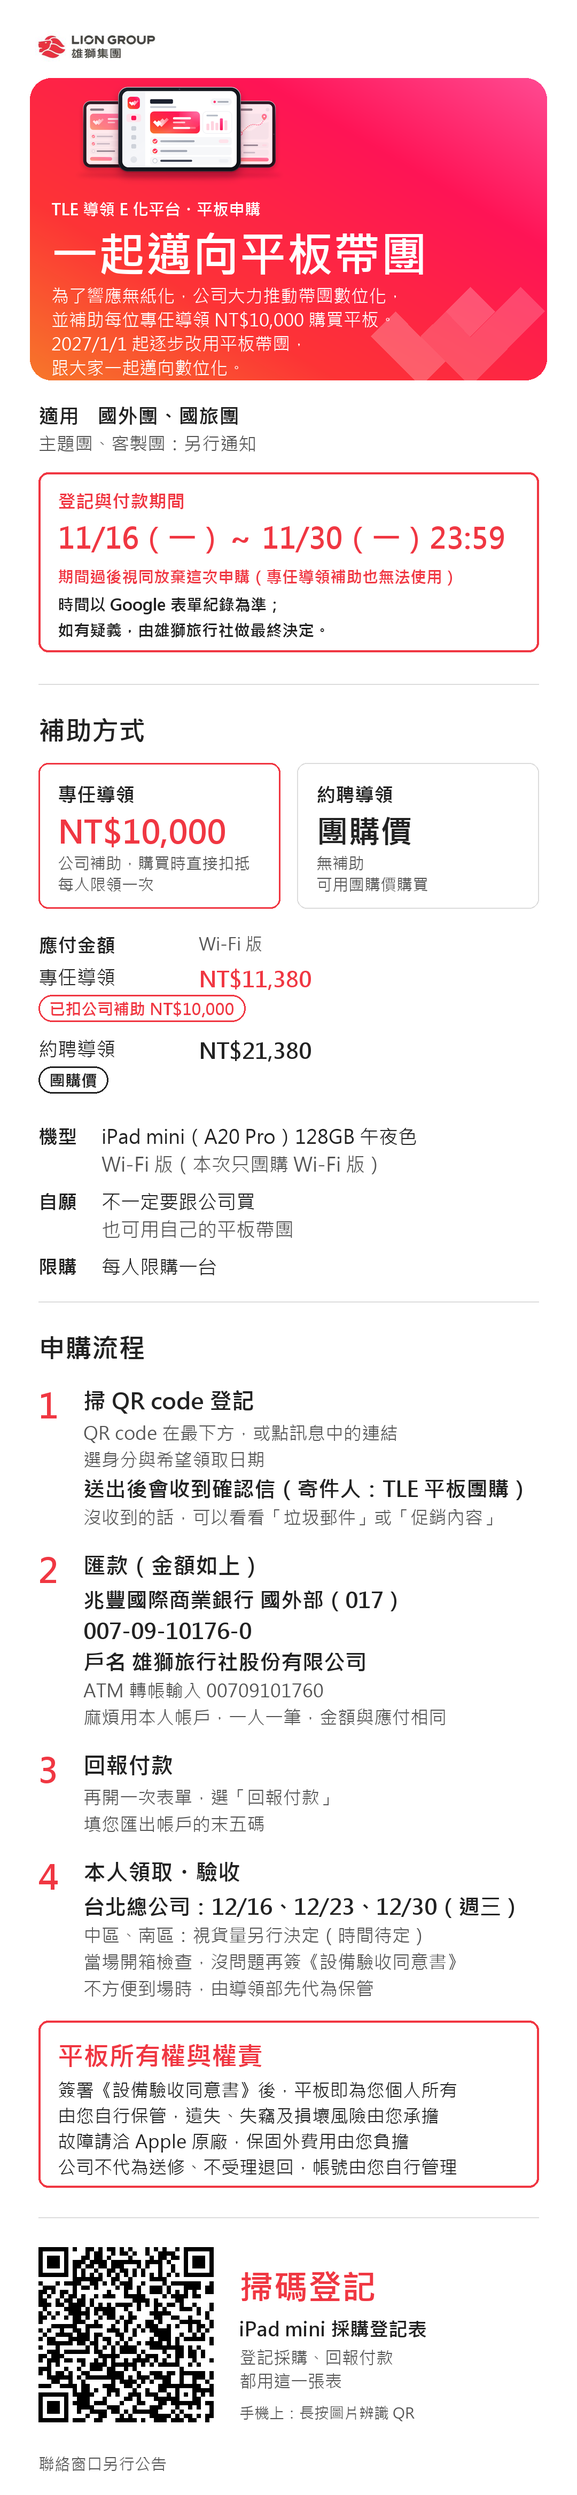
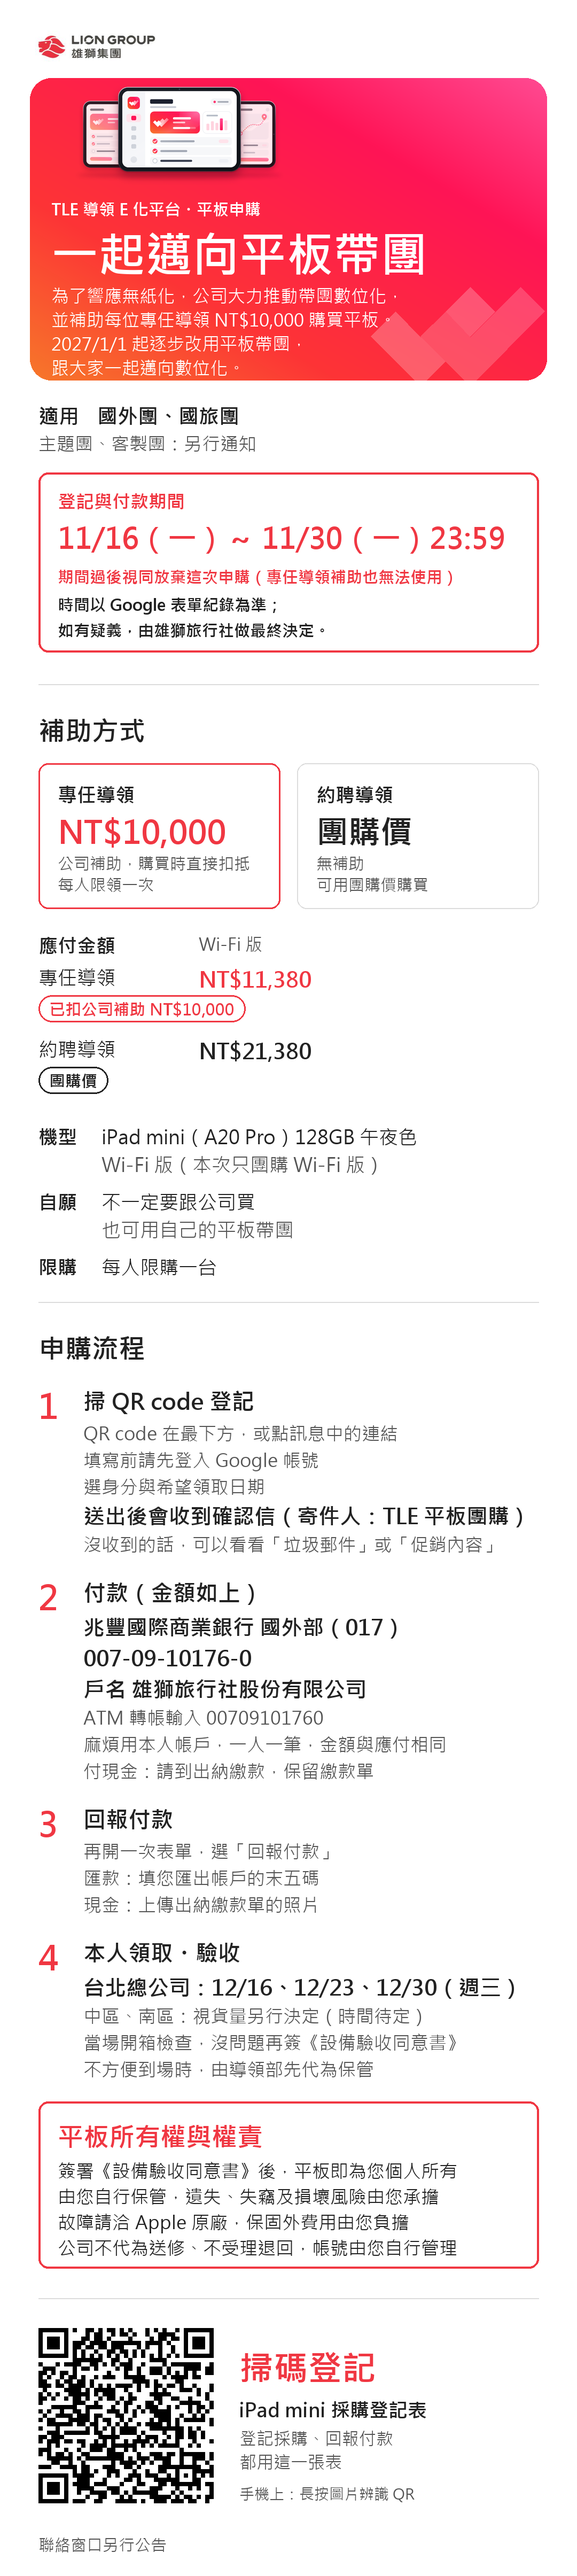
Update notice files 2026-11-17

diff --git a/index.html b/index.html
@@ -163,7 +163,7 @@ header { border-top: 0; padding-top: 0; }
[1 lines of base64/hex data omitted]
       <div class="txt">
         <div class="big">掃碼登記</div>
-        <div>iPad mini 採購登記表<br><span style="color:var(--muted)">登記採購、回報付款都用這一張表</span></div>
+        <div>iPad mini 採購登記表<br><span style="color:var(--muted)">登記採購、回報付款都用這一張表；填寫前請先登入 Google 帳號</span></div>
         <p class="mailtip">送出登記後會收到<b>確認信</b>（寄件人「TLE 平板團購」，含應付金額與匯款資料）。如果沒收到，可以看看<b>垃圾郵件</b>或<b>促銷內容</b>。</p>
         <div class="row">
           <a class="btn primary" href="https://docs.google.com/forms/d/e/1FAIpQLScBRnBCwPRIjfkRc_nUYg1U1YS1kxVSOd4e8PlcC0XqD_pPJw/viewform" target="_blank" rel="noopener">開啟登記表</a>
@@ -178,7 +178,7 @@ header { border-top: 0; padding-top: 0; }
   <section aria-labelledby="h-lookup">
     <h2 id="h-lookup">付款回報查詢</h2>
     <div class="lookup">
-      <p style="margin:0">填完「回報付款」後，可以在這裡輸入您匯出帳戶的<b>末五碼</b>，確認表單已經送達。</p>
+      <p style="margin:0">匯款的「回報付款」送出後，可以在這裡輸入您匯出帳戶的<b>末五碼</b>，確認表單已經送達。現金付款以出納繳款單為準，不需要在這裡查詢。</p>
       <form id="lookup-form" novalidate>
         <label for="last5" class="note" style="width:100%">帳號末五碼</label>
         <input id="last5" name="last5" inputmode="numeric" autocomplete="off" maxlength="5" pattern="\d{5}" placeholder="12345" aria-describedby="lookup-note">
@@ -224,18 +224,22 @@ header { border-top: 0; padding-top: 0; }
 ① 填寫登記表
 選身分與希望領取日期：
 https://docs.google.com/forms/d/e/1FAIpQLScBRnBCwPRIjfkRc_nUYg1U1YS1kxVSOd4e8PlcC0XqD_pPJw/viewform
+・填寫前請先登入 Google 帳號
 ・送出後會收到「登記確認信」，寄件人「TLE 平板團購」，主旨開頭【iPad mini 團購】
 ・如果沒收到，可以看看「垃圾郵件」或「促銷內容」資料夾
 
-② 匯款
+② 付款（匯款或現金）
 銀行：兆豐國際商業銀行 國外部（017）
 帳號：007-09-10176-0（ATM 轉帳輸入 00709101760）
 戶名：雄獅旅行社股份有限公司
 ・麻煩用您本人的帳戶匯款，一人一筆、金額與應付金額相同，方便出納核對
+・付現金：請到出納繳款，並保留繳款單
 
 ③ 回報付款
-匯款後再開一次登記表，選「回報付款」，填上您匯出帳戶的末五碼。
-回報後可到公告頁輸入末五碼，確認表單已送達：
+付款後再開一次登記表，選「回報付款」，再選付款方式：
+・匯款：填您匯出帳戶的末五碼
+・現金：上傳出納繳款單的照片
+匯款回報後，可到公告頁輸入末五碼，確認表單已送達：
 https://hoyinzlionwork-cmd.github.io/tablet-notice/
 
 ④ 本人領取・驗收
@@ -259,12 +263,12 @@ https://hoyinzlionwork-cmd.github.io/tablet-notice/
           <div class="meta">PNG・手機直式，可直接轉傳 LINE</div>
         </div>
         <div class="row">
-          <a class="btn" href="leader-flyer.png?v=202611171023" target="_blank" rel="noopener">開啟圖片</a>
-          <a class="btn" href="leader-flyer.png?v=202611171023" download="導領平板申購說明.png">下載圖片</a>
+          <a class="btn" href="leader-flyer.png?v=202611171237" target="_blank" rel="noopener">開啟圖片</a>
+          <a class="btn" href="leader-flyer.png?v=202611171237" download="導領平板申購說明.png">下載圖片</a>
         </div>
       </div>
     </div>
-        <img class="flyer" src="leader-flyer.png?v=202611171023" alt="導領平板申購說明圖預覽" loading="lazy">
+        <img class="flyer" src="leader-flyer.png?v=202611171237" alt="導領平板申購說明圖預覽" loading="lazy">
   </section>
 </div>
 
